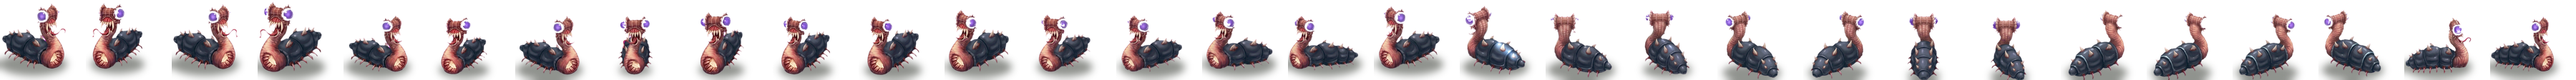
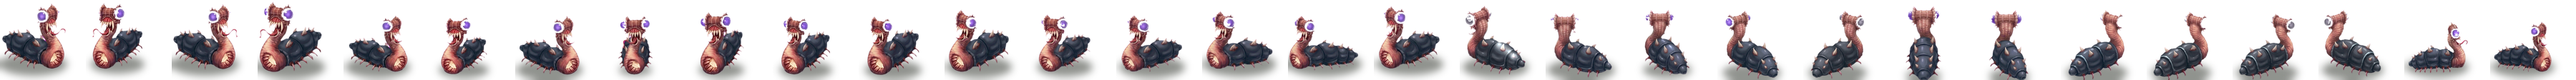
Bolt repaint: tidy columns 17-29 (size, margins, desaturate blue shell)
Claude-Session: https://claude.ai/code/session_01SMsyPA2gdtNVrQYtH9AZv3

Changed region(s): [[0.7156, 0.1339, 0.8089, 0.9375], [0.9333, 0.2411, 0.9956, 0.9107], [0.56, 0.6429, 0.5911, 0.6696]]

diff --git a/web/tools/gen-bolt-sprite.py b/web/tools/gen-bolt-sprite.py
@@ -45,6 +45,12 @@ GAMMA = 0.75               # lifts the dark shell so it reads at the real size
 MARGIN = 0.5               # keep this many 1x pixels inside the cell
 SINK = 2.0                 # the painted body stands this many 1x pixels below the original's body bottom (its shadow sits there)
 
+# per-heading fixes, no repaint needed: size up the narrow back views, keep the cut-off ones well inside the cell,
+# and take the blue out of the glossy shell highlights so they match the black shell of the front views
+SIZE_UP = {22: 1.1, 23: 1.1}
+EXTRA_MARGIN = {28: 1.0, 29: 1.0}   # 1x pixels, on top of MARGIN
+DEBLUE = {17: 0.85, 21: 0.85, 25: 0.85, 26: 0.85, 27: 0.85}   # how much of the blue cast is removed
+
 args = [a for a in sys.argv[1:] if not a.startswith("--")]
 PARTIAL = "--partial" in sys.argv
 if len(args) != 1:
@@ -135,14 +141,15 @@ for col, cut in painted.items():
 scale = {}
 for col, cut in painted.items():
     near = [cover[(col + d) % DIRS] for d in range(-2, 3) if (col + d) % DIRS in cover]
-    k = float(np.median(near))   # 1x pixels per painted pixel
+    k = float(np.median(near)) * SIZE_UP.get(col, 1.0)   # 1x pixels per painted pixel
     x0, y0, x1, y1 = trim[col]
     ox0, oy0, ox1, oy1 = original_box(col)
     cx, bottom = (ox0 + ox1) / 2, oy1 + SINK
     fx0, fy0, fx1, fy1 = bbox(np.asarray(cut)[..., 3] > 40)
     mid = (x0 + x1) / 2
     left, right, up = (mid - fx0) * k, (fx1 - mid) * k, (y1 - fy0) * k
-    limit = min((cx - MARGIN) / left, (CELL[0] - MARGIN - cx) / right, (bottom - MARGIN) / up)
+    m = MARGIN + EXTRA_MARGIN.get(col, 0)
+    limit = min((cx - m) / left, (CELL[0] - m - cx) / right, (bottom - m) / up)
     scale[col] = k * min(1.0, limit)
     print(f"column {col:2}: scale {scale[col]:.4f}" + (" (cut to fit the cell)" if limit < 1 else ""), file=sys.stderr)
 
@@ -159,6 +166,12 @@ for col in range(DIRS):
     mon = resize_premultiplied(cut, (max(1, round(cut.width * s)), max(1, round(cut.height * s))))
     px = np.asarray(mon).astype(float)
     px[..., :3] = 255 * (px[..., :3] / 255) ** GAMMA
+    if col in DEBLUE:
+        r, g, b = px[..., 0], px[..., 1], px[..., 2]
+        luma = 0.3 * r + 0.59 * g + 0.11 * b
+        bluish = np.clip((b - np.maximum(r, g)) / 40, 0, 1)   # 0 for the pink body, 1 for the blue gloss
+        for i in range(3):
+            px[..., i] += (luma - px[..., i]) * bluish * DEBLUE[col]
     mon = Image.fromarray(px.astype("uint8"), "RGBA")
     bx, by = (ox0 + ox1) / 2 * UP, (oy1 + SINK) * UP        # ground point: bottom centre of the original's body
     ox, oy = round(bx - (x0 + x1) / 2 * s), round(by - y1 * s)
